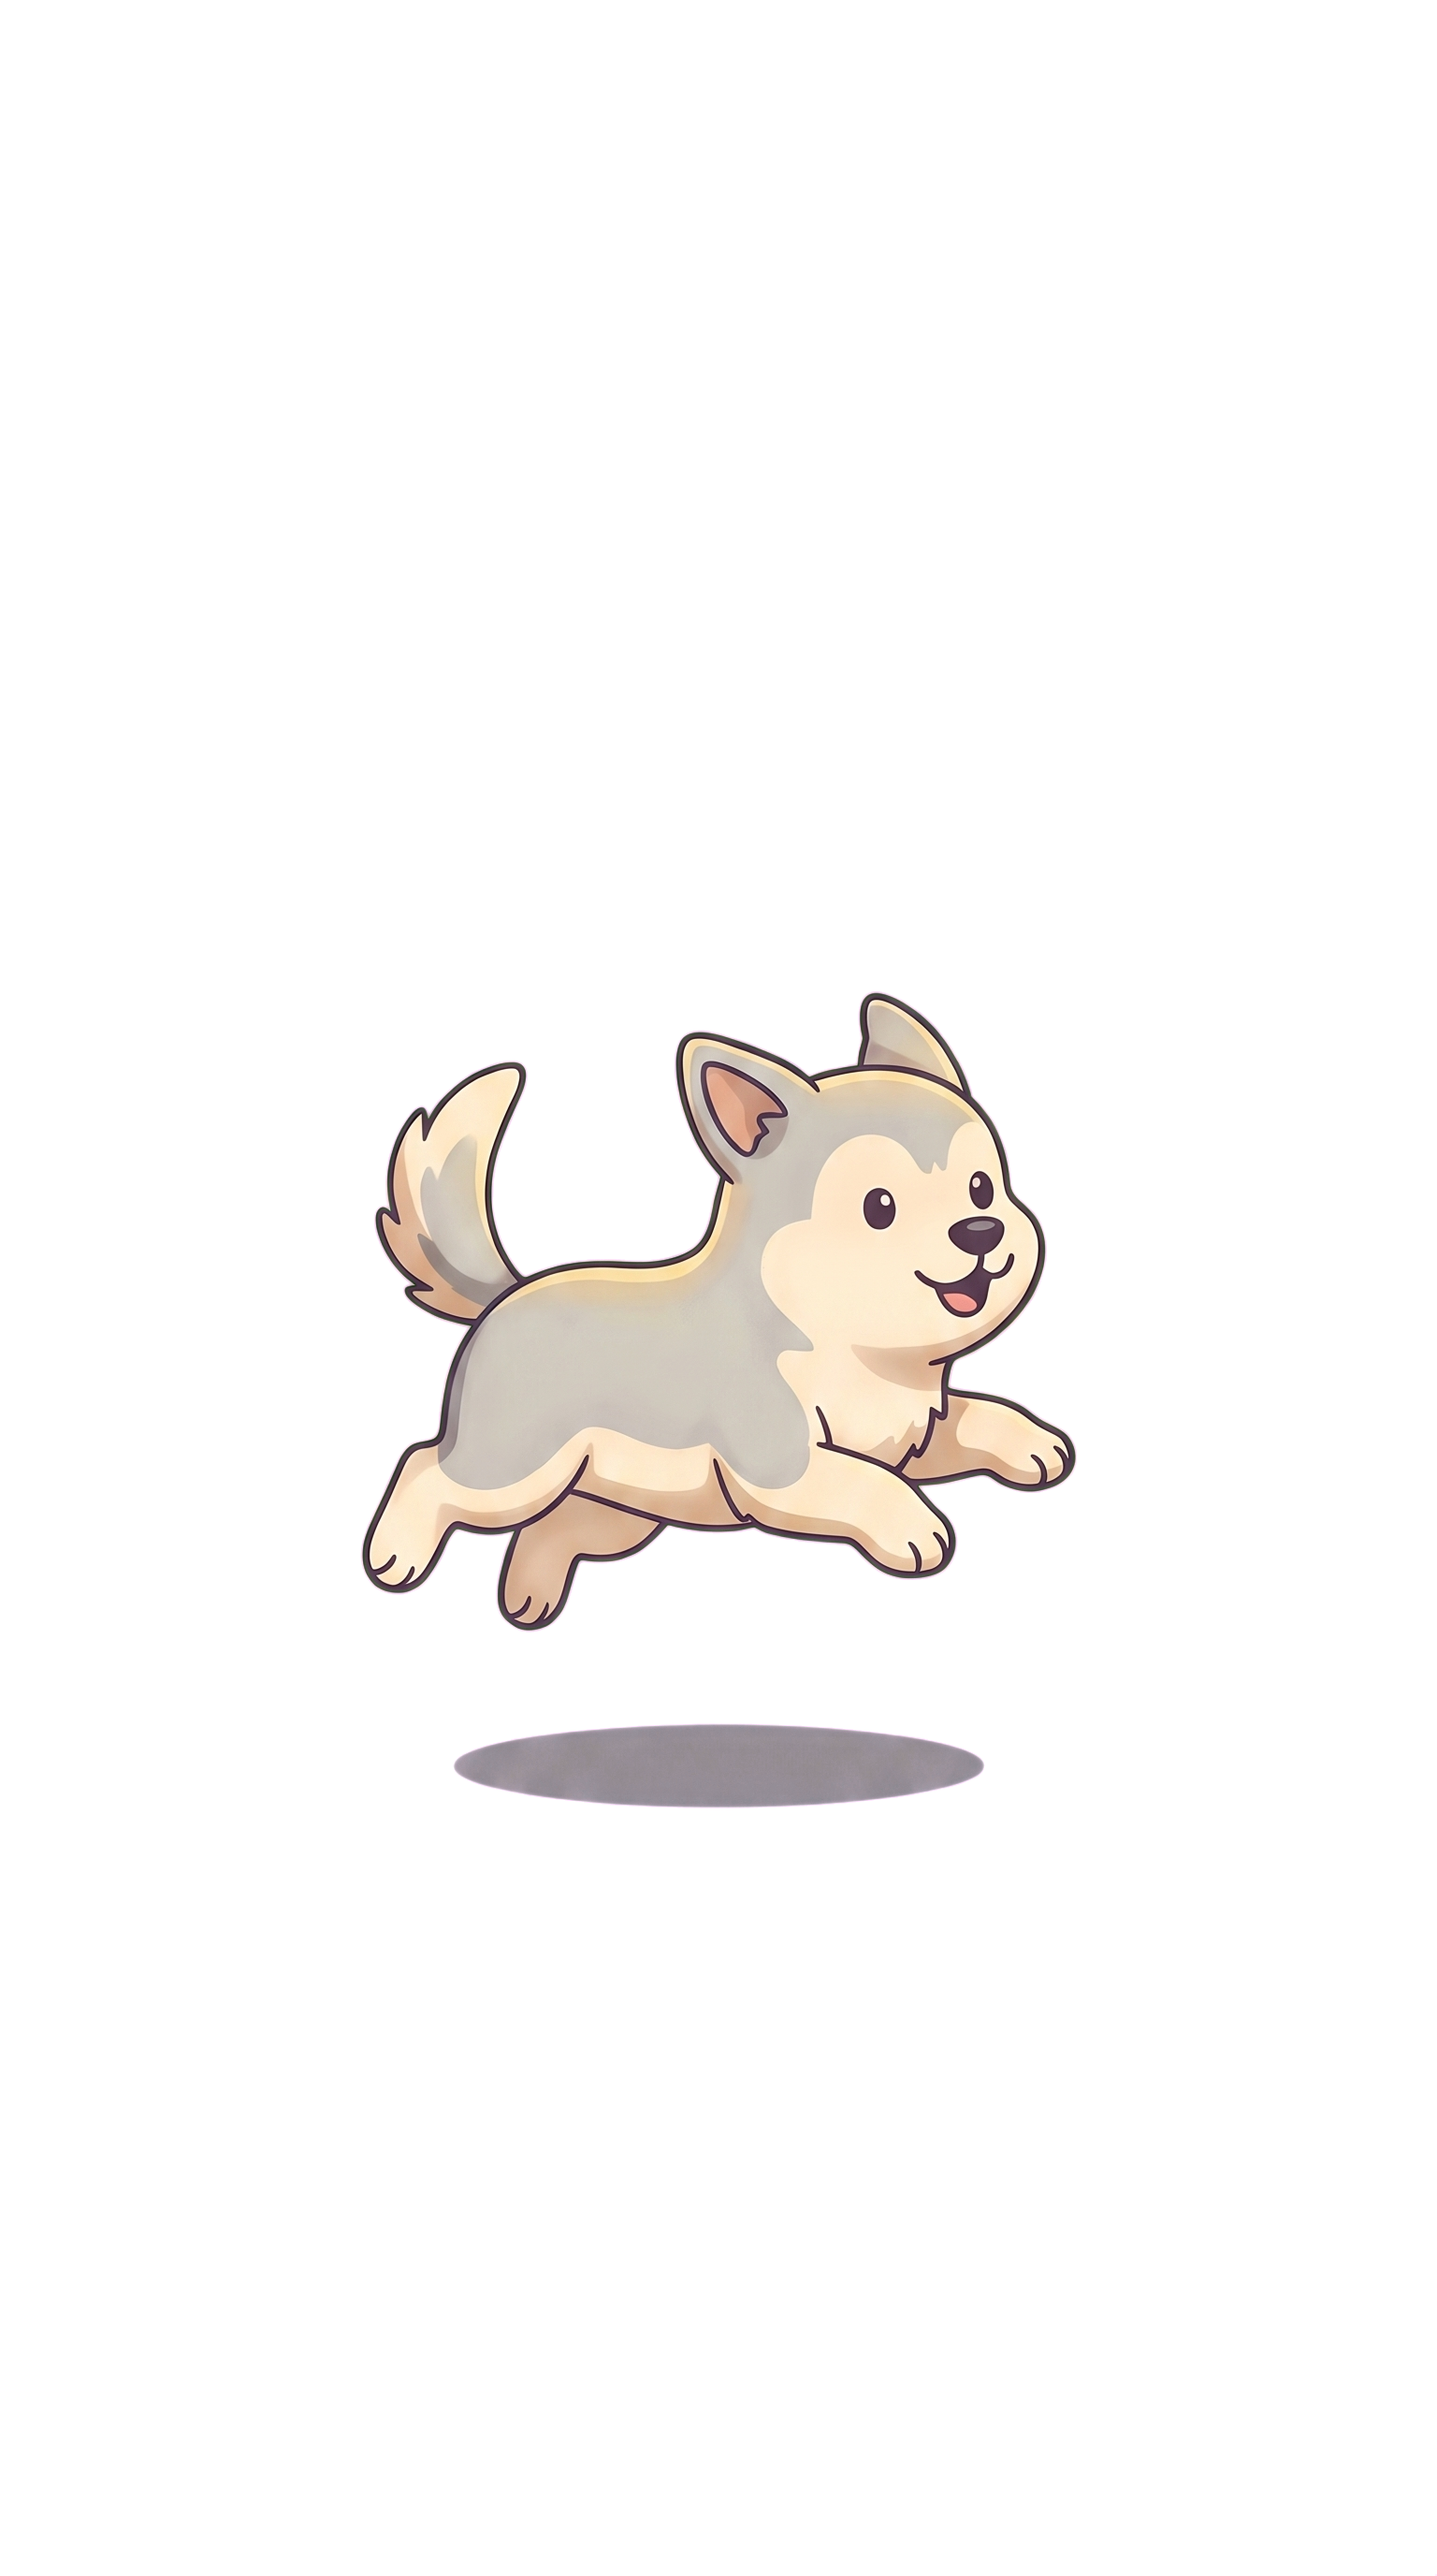
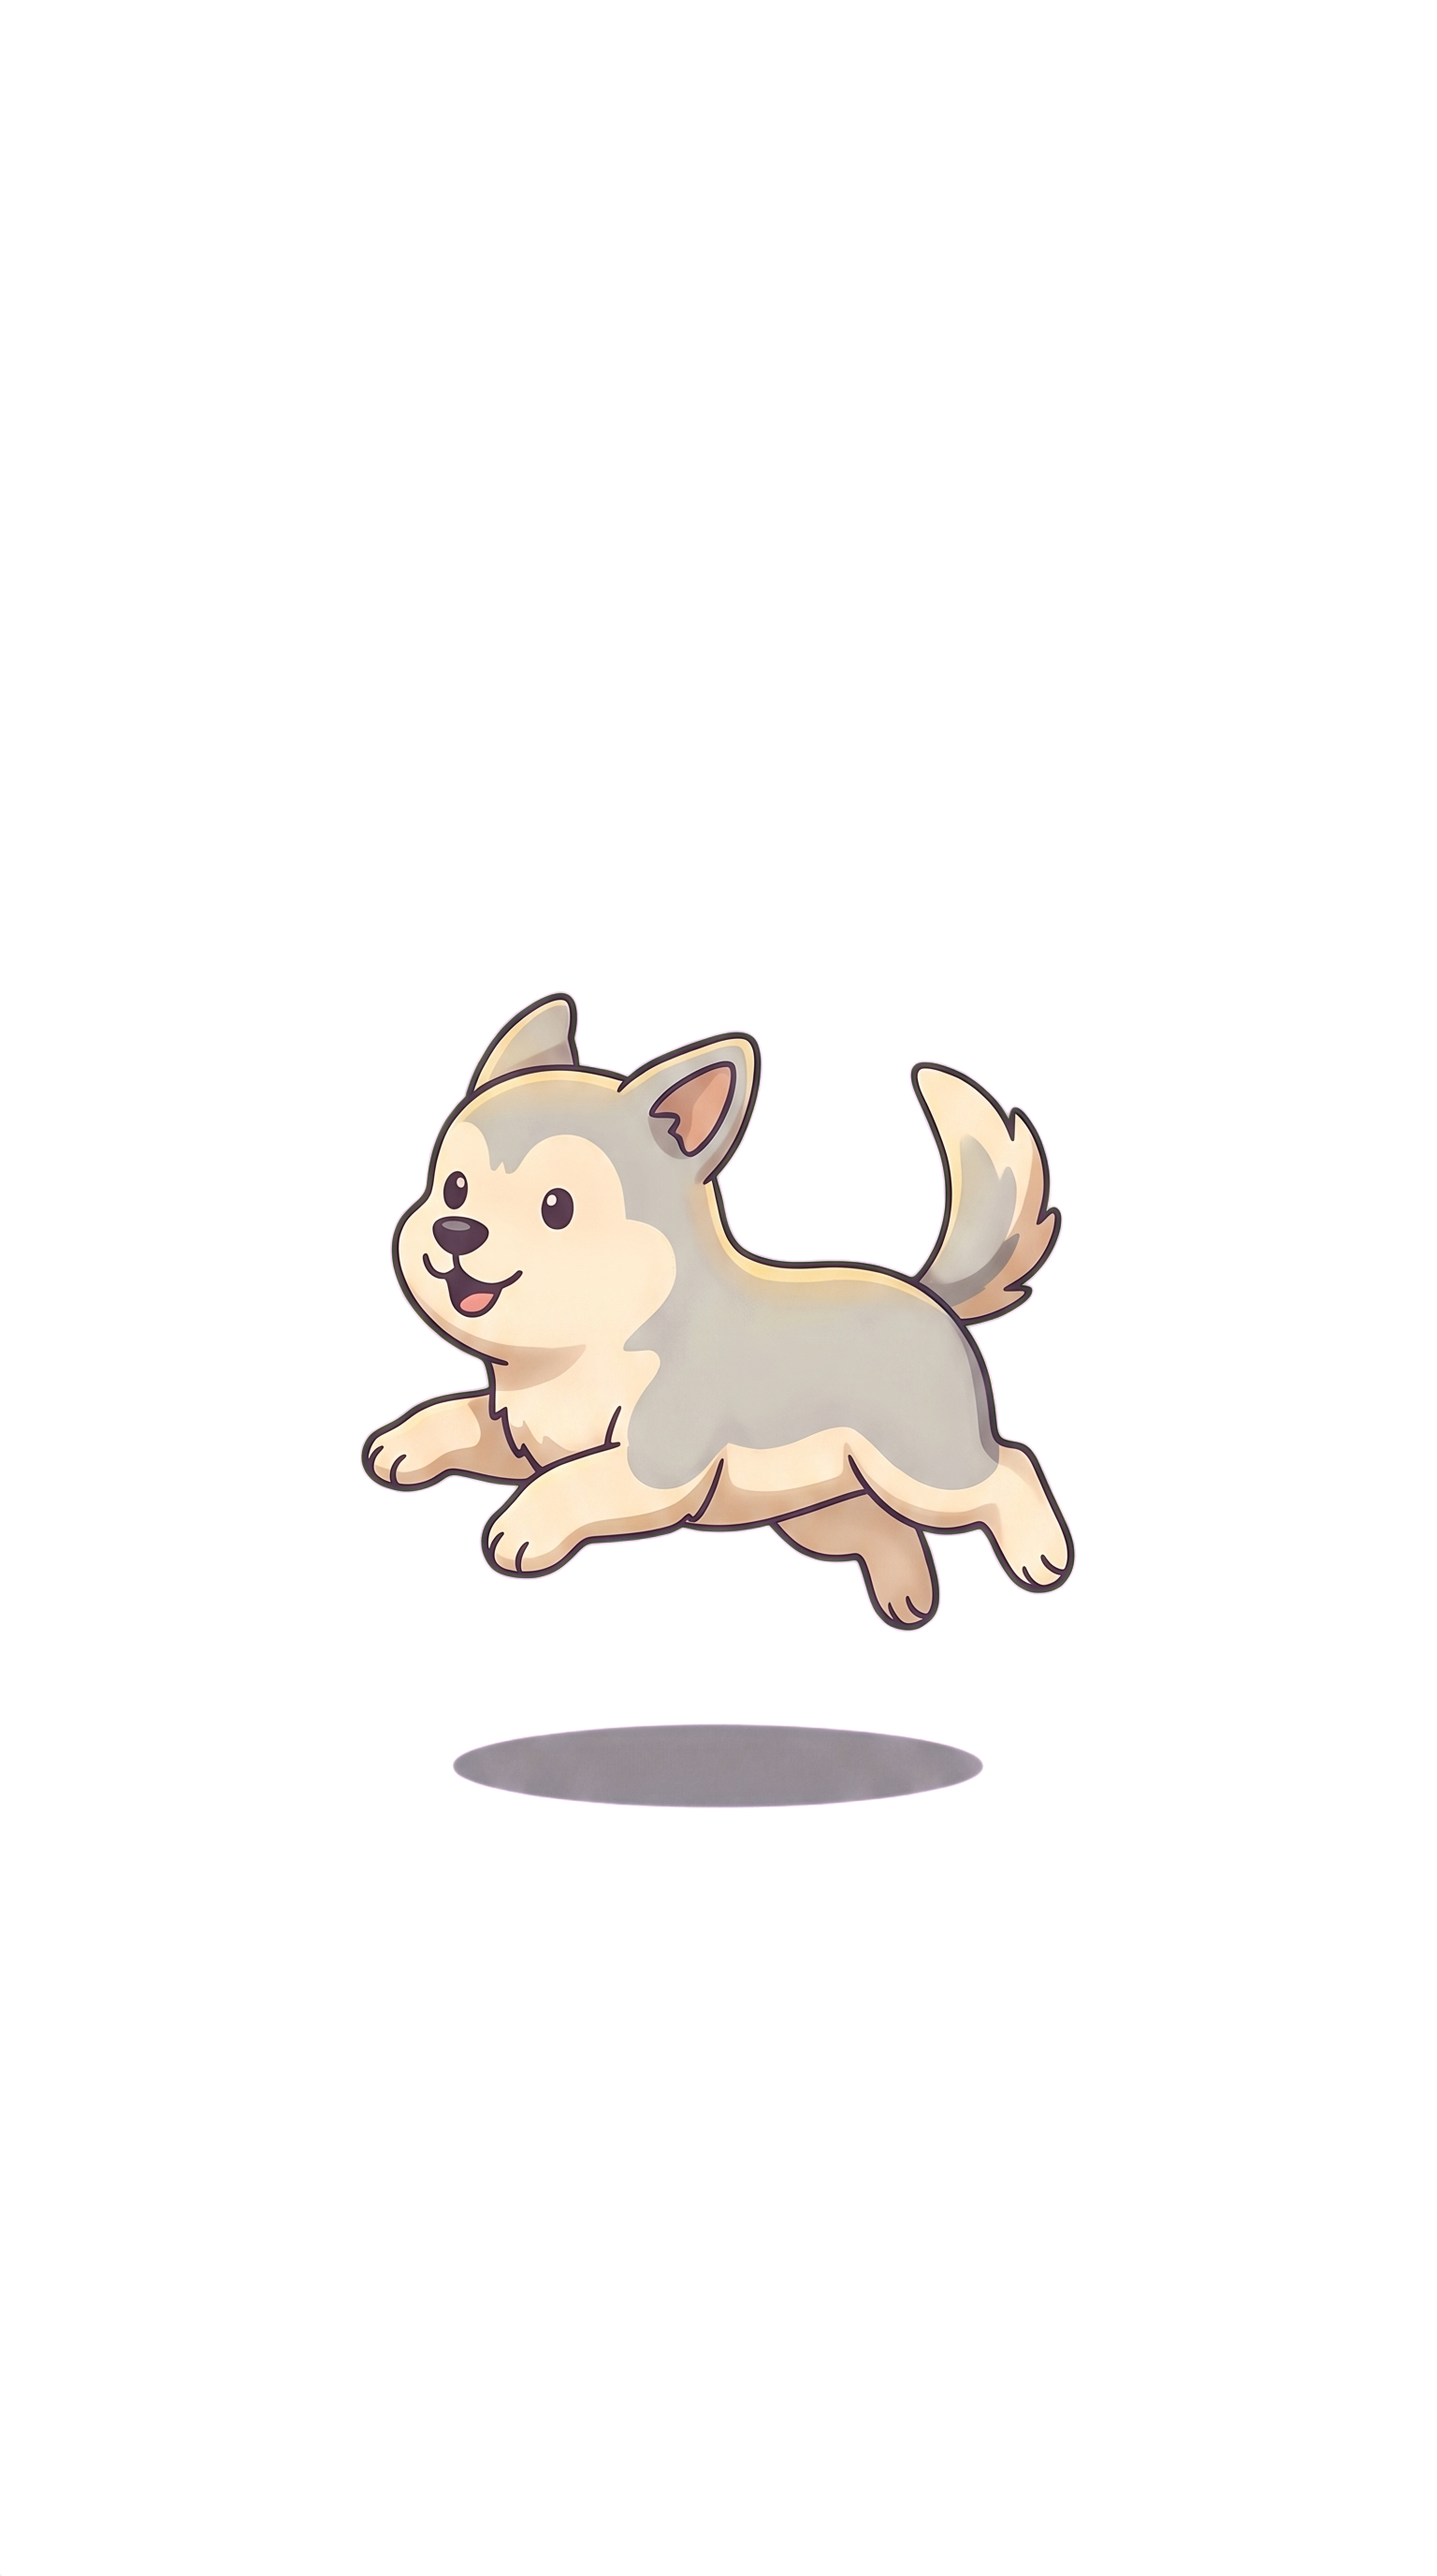
[verified] fix: diversify zodiac gaze directions

Changed region(s): [[0.25, 0.375, 0.75, 0.6562]]

diff --git a/tests/saju.test.js b/tests/saju.test.js
@@ -177,25 +177,31 @@ describe('해석 규칙', () => {
     expect(guidance.whyNeeded).toContain('수')
   })
 
-  it('같은 명식에는 같은 포즈를 고르고 여러 명식에는 세 포즈를 모두 배분한다', () => {
-    const samples = [
-      { day: 1, pose: 'upright', path: 'protagonists/rat-upright.png' },
-      { day: 3, pose: 'jump', path: 'protagonists/tiger-jump.png' },
-      { day: 6, pose: 'side', path: 'protagonists/snake.png' },
-    ]
-    const profiles = samples.map(({ day }) => getSajuVisualProfile(calculateSaju({
-      calendar: 'solar', year: 2001, month: 1, day,
+  it('같은 명식에는 같은 포즈와 시선 방향을 고정한다', () => {
+    const input = {
+      calendar: 'solar', year: 2001, month: 1, day: 1,
       hour: 12, minute: 32, gender: 'female',
+    }
+    const first = getSajuVisualProfile(calculateSaju(input))
+    const repeated = getSajuVisualProfile(calculateSaju(input))
+    expect(repeated.characterPose).toBe(first.characterPose)
+    expect(repeated.characterFacing).toBe(first.characterFacing)
+    expect(repeated.layers.natal.at(-1)).toBe(first.layers.natal.at(-1))
+  })
+
+  it('기존 세 포즈를 버리지 않고 정면형을 더해 네 가지 자산을 모두 사용한다', () => {
+    const profiles = Array.from({ length: 60 }, (_, index) => getSajuVisualProfile(calculateSaju({
+      calendar: 'solar', year: 2001, month: 1, day: (index % 28) + 1,
+      hour: index % 24, minute: 32, gender: 'female',
     })))
-    expect(new Set(profiles.map(profile => profile.characterPose))).toEqual(new Set(['side', 'upright', 'jump']))
-    samples.forEach((sample, index) => {
-      expect(profiles[index].characterPose).toBe(sample.pose)
-      expect(profiles[index].layers.natal.at(-1)).toBe(sample.path)
-      expect(getSajuVisualProfile(calculateSaju({
-        calendar: 'solar', year: 2001, month: 1, day: sample.day,
-        hour: 12, minute: 32, gender: 'female',
-      })).characterPose).toBe(sample.pose)
-    })
+    expect(new Set(profiles.map(profile => profile.characterPose))).toEqual(new Set(['side', 'upright', 'front', 'jump']))
+    const patterns = {
+      side: /^protagonists\/[a-z]+\.png$/,
+      upright: /^protagonists\/[a-z]+-upright-three-quarter\.png$/,
+      front: /^protagonists\/[a-z]+-upright\.png$/,
+      jump: /^protagonists\/[a-z]+-jump\.png$/,
+    }
+    profiles.forEach(profile => expect(profile.layers.natal.at(-1)).toMatch(patterns[profile.characterPose]))
   })
 
   it('모든 명식에 월령 환경·일지 동물·보완 오행 레이어를 만든다', () => {
@@ -229,8 +235,9 @@ describe('해석 규칙', () => {
     expect(summerProfile.protagonist.visual).toContain('계수(水)')
     expect(summerProfile.overall).toContain('수탉은 모습')
     expect(summerProfile.overall).not.toContain('수탉는')
-    expect(summerProfile.characterPose).toBe('upright')
-    expect(summerProfile.scene).toContain('물빛 수탉이 두 발로 당당히 서 있고')
+    expect(summerProfile.characterPose).toBe('front')
+    expect(summerProfile.characterFacing).toBe('front')
+    expect(summerProfile.scene).toContain('물빛 수탉이 정면으로 당당히 서 있고')
     expect(summerProfile.environment.term).toContain('계사월')
     expect(summerProfile.neededFunction.term).toContain('금(金)')
     expect(summerProfile.support.term).toContain('목(木)')
@@ -244,8 +251,10 @@ describe('해석 규칙', () => {
     expect(winterProfile.layers.natal).toEqual([
       'environments/winter.jpg',
       'effects/earth.png',
-      'protagonists/horse-upright.png',
+      'protagonists/horse-upright-three-quarter.png',
     ])
+    expect(winterProfile.characterPose).toBe('upright')
+    expect(winterProfile.characterFacing).toBe('right')
     expect(winterProfile.protagonist.term).toContain('말')
   })
 

diff --git a/src/home-gallery.js b/src/home-gallery.js
@@ -4,8 +4,10 @@ const ANIMALS = [
   ['monkey', '원숭이'], ['rooster', '수탉'], ['dog', '개'], ['pig', '돼지'],
 ]
 
-const POSES = ['side', 'upright', 'jump']
-const POSE_LABELS = { side: '차분히 선', upright: '두 발로 당당히 선', jump: '힘차게 도약하는' }
+const POSE_LABELS = { side: '차분히 선', upright: '두 발로 비스듬히 선', front: '정면으로 당당히 선', jump: '힘차게 도약하는' }
+const POSE_FACINGS = { side: 'right', upright: 'right', front: 'front', jump: 'left' }
+const POSE_SUFFIXES = { side: '', upright: '-upright-three-quarter', front: '-upright', jump: '-jump' }
+const FACING_LABELS = { right: '오른쪽을 보는', front: '정면을 보는', left: '왼쪽을 보는' }
 const SEASONS = ['spring', 'summer', 'autumn', 'winter']
 const SEASON_LABELS = { spring: '봄', summer: '여름', autumn: '가을', winter: '겨울' }
 const ELEMENTS = [
@@ -27,18 +29,26 @@ export function pickHomeGallery(random = Math.random) {
     const target = takeIndex(random, index + 1)
     ;[pool[index], pool[target]] = [pool[target], pool[index]]
   }
+  const rightPose = ['side', 'upright'][takeIndex(random, 2)]
+  const poses = [rightPose, 'front', 'jump']
+  for (let index = poses.length - 1; index > 0; index -= 1) {
+    const target = takeIndex(random, index + 1)
+    ;[poses[index], poses[target]] = [poses[target], poses[index]]
+  }
   return pool.slice(0, 3).map((entry, index) => {
-    const pose = POSES[takeIndex(random, POSES.length)]
+    const pose = poses[index]
+    const facing = POSE_FACINGS[pose]
     const season = SEASONS[(takeIndex(random, SEASONS.length) + index) % SEASONS.length]
     const element = ELEMENTS[(takeIndex(random, ELEMENTS.length) + index) % ELEMENTS.length]
-    const suffix = pose === 'side' ? '' : `-${pose}`
+    const suffix = POSE_SUFFIXES[pose]
     return {
       ...entry,
       pose,
+      facing,
       season,
       element: element.key,
       tint: element.tint,
-      alt: `${SEASON_LABELS[season]} 풍경에서 ${POSE_LABELS[pose]} ${entry.label} 배경화면`,
+      alt: `${SEASON_LABELS[season]} 풍경에서 ${FACING_LABELS[facing]} ${POSE_LABELS[pose]} ${entry.label} 배경화면`,
       layers: [
         `environments/${season}.jpg`,
         `effects/${element.key}.png`,

diff --git a/tests/home-gallery.test.js b/tests/home-gallery.test.js
@@ -6,10 +6,15 @@ describe('홈 랜덤 배경화면', () => {
     const choices = pickHomeGallery(() => 0.25)
     expect(choices).toHaveLength(3)
     expect(new Set(choices.map(choice => choice.animal)).size).toBe(3)
-    expect(choices.every(choice => ['side', 'upright', 'jump'].includes(choice.pose))).toBe(true)
+    const poses = choices.map(choice => choice.pose)
+    expect(poses).toContain('front')
+    expect(poses).toContain('jump')
+    expect(poses.filter(pose => ['side', 'upright'].includes(pose))).toHaveLength(1)
+    expect(new Set(choices.map(choice => choice.facing))).toEqual(new Set(['right', 'front', 'left']))
+    const suffixes = { side: '', upright: '-upright-three-quarter', front: '-upright', jump: '-jump' }
     for (const choice of choices) {
-      const suffix = choice.pose === 'side' ? '' : `-${choice.pose}`
-      expect(choice.layers.at(-1)).toBe(`protagonists/${choice.animal}${suffix}.png`)
+      expect(choice.layers.at(-1)).toBe(`protagonists/${choice.animal}${suffixes[choice.pose]}.png`)
+      expect(choice.facing).toBe({ side: 'right', upright: 'right', front: 'front', jump: 'left' }[choice.pose])
     }
   })
 
@@ -17,5 +22,7 @@ describe('홈 랜덤 배경화면', () => {
     const low = pickHomeGallery(() => 0.05).map(choice => `${choice.animal}-${choice.pose}`)
     const high = pickHomeGallery(() => 0.95).map(choice => `${choice.animal}-${choice.pose}`)
     expect(high).not.toEqual(low)
+    const rightPoses = [low, high].map(items => items.find(item => item.endsWith('-side') || item.endsWith('-upright'))?.split('-').at(-1))
+    expect(new Set(rightPoses)).toEqual(new Set(['side', 'upright']))
   })
 })

diff --git a/src/saju.js b/src/saju.js
@@ -273,9 +273,10 @@ function withParticle(word, consonantForm, vowelForm) {
 }
 
 const CHARACTER_POSES = {
-  side: { suffix: '', phrase: '차분히 서 있는', action: '차분히 서 있고' },
-  upright: { suffix: '-upright', phrase: '두 발로 당당히 선', action: '두 발로 당당히 서 있고' },
-  jump: { suffix: '-jump', phrase: '힘차게 도약하는', action: '힘차게 도약하고' },
+  side: { suffix: '', facing: 'right', phrase: '차분히 서 있는', action: '차분히 서 있고' },
+  upright: { suffix: '-upright-three-quarter', facing: 'right', phrase: '두 발로 비스듬히 선', action: '두 발로 비스듬히 서 있고' },
+  front: { suffix: '-upright', facing: 'front', phrase: '정면으로 당당히 선', action: '정면으로 당당히 서 있고' },
+  jump: { suffix: '-jump', facing: 'left', phrase: '힘차게 도약하는', action: '힘차게 도약하고' },
 }
 
 export function selectCharacterPose(signature) {
@@ -284,7 +285,8 @@ export function selectCharacterPose(signature) {
     hash ^= character.codePointAt(0)
     hash = Math.imul(hash, 16777619)
   }
-  return Object.keys(CHARACTER_POSES)[(hash >>> 0) % 3]
+  const poses = Object.keys(CHARACTER_POSES)
+  return poses[(hash >>> 0) % poses.length]
 }
 
 export function getSajuVisualProfile(data) {
@@ -384,6 +386,7 @@ export function getSajuVisualProfile(data) {
     luckAsset: `${priority.element}.jpg`,
     characterTint: ELEMENTS[dayElement].color,
     characterPose: poseKey,
+    characterFacing: pose.facing,
     layers: {
       basePath: 'generic-layers',
       natal: [environmentLayer, ...innateEffects, protagonistLayer],

diff --git a/e2e/app.spec.js b/e2e/app.spec.js
@@ -9,6 +9,8 @@ test('홈 화면은 동물과 포즈가 달라지는 귀여운 배경화면 3종
   expect(new Set(choices).size).toBe(3)
   const animals = await canvases.evaluateAll((items) => items.map((canvas) => canvas.dataset.homeAnimal))
   expect(new Set(animals).size).toBe(3)
+  const facings = await canvases.evaluateAll((items) => items.map((canvas) => canvas.dataset.homeFacing))
+  expect(new Set(facings)).toEqual(new Set(['right', 'front', 'left']))
 })
 
 test('홈 레이어를 불러오지 못해도 빈 카드 대신 대체 화면을 그린다', async ({ page }) => {

diff --git a/src/main.js b/src/main.js
@@ -323,6 +323,7 @@ async function setupHomeGallery() {
     const choice = choices[index]
     canvas.dataset.homeAnimal = choice.animal
     canvas.dataset.homePose = choice.pose
+    canvas.dataset.homeFacing = choice.facing
     canvas.dataset.layerReady = 'false'
     canvas.setAttribute('aria-label', choice.alt)
     try {
